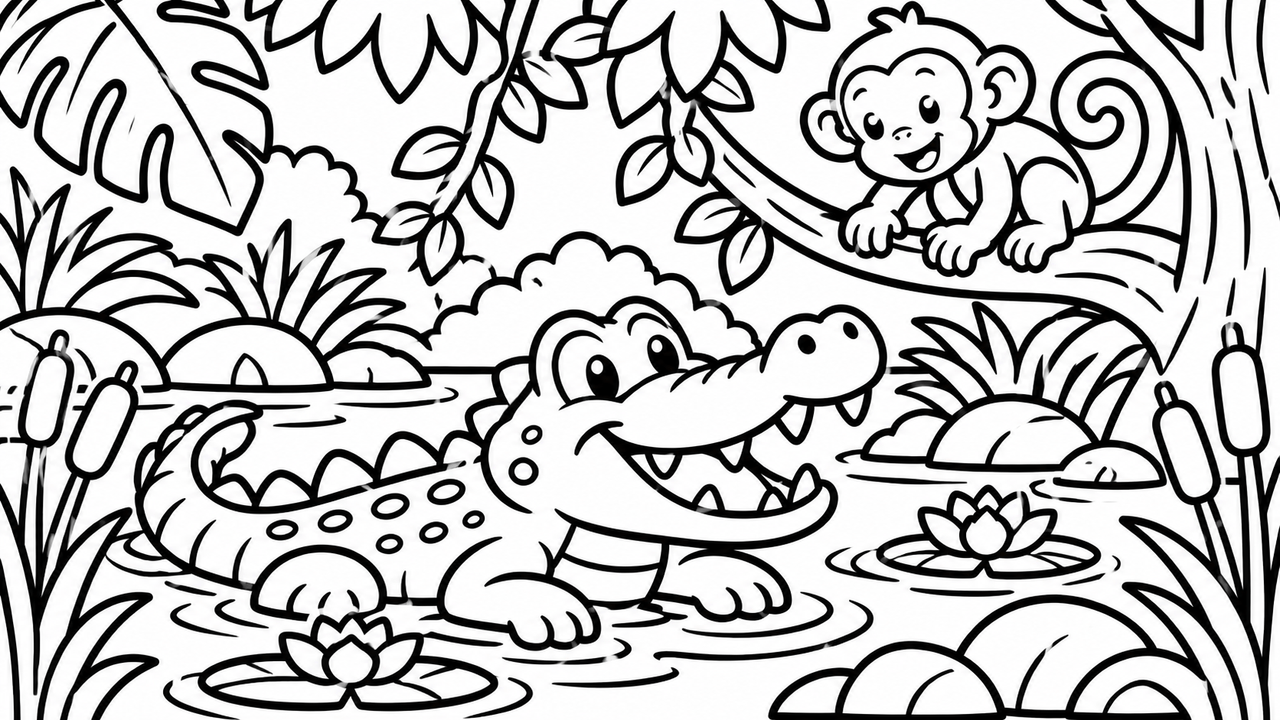
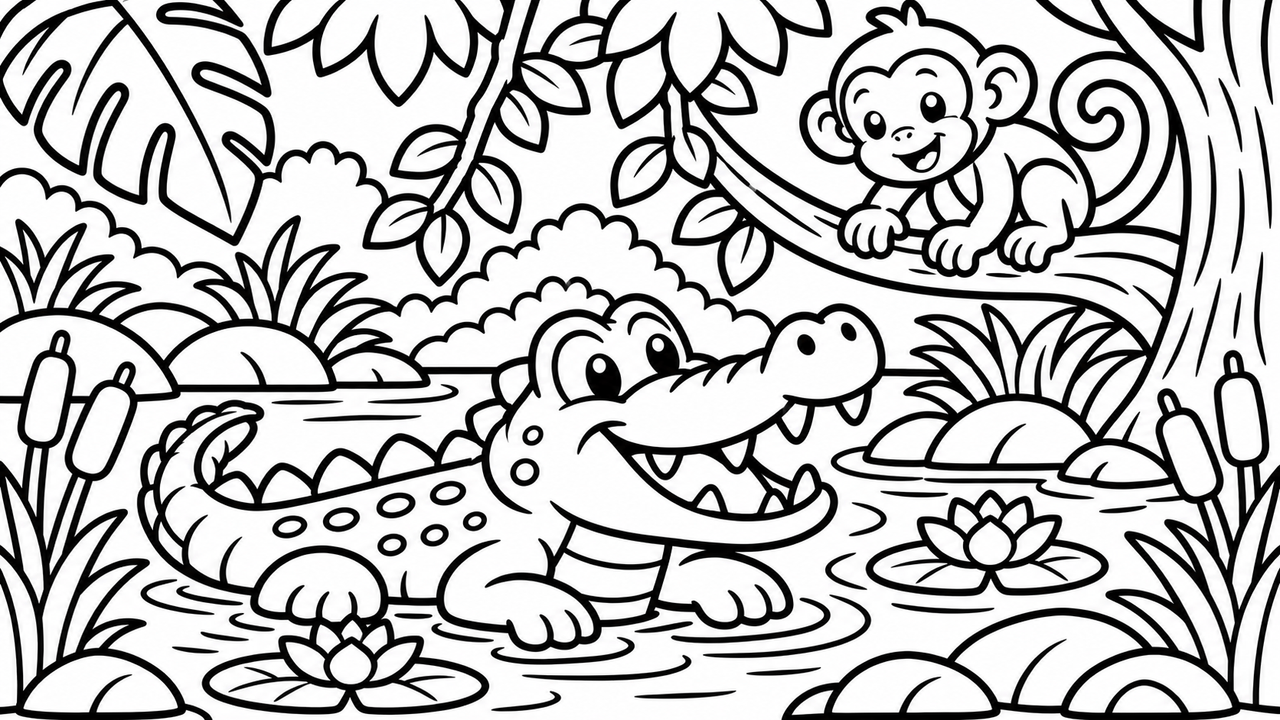
Refactor code structure for improved readability and maintainability

diff --git a/tests/coloring.browser.ts b/tests/coloring.browser.ts
@@ -375,6 +375,21 @@ async function main() {
     await open(); await expect(canvas()).toHaveAttribute("aria-label", "Jungle River Adventure coloring canvas");
     assert.equal(await snapshot(), riverPainted, "new scene progress survives fullscreen exit and reload");
 
+    for (const index of [4, 5]) {
+      const scene = COLORING_SCENES[index], sample = await fixture(index);
+      await page.getByRole("button", { name: scene.title, exact: true }).click();
+      await expect(canvas()).toHaveAttribute("aria-label", `${scene.title} coloring canvas`);
+      await page.getByRole("button", { name: "Bucket", exact: true }).click();
+      await (await supplies("Colors")).getByRole("button", { name: "Leaf", exact: true }).click();
+      await canvas().scrollIntoViewIfNeeded();
+      const blank = await snapshot(); await at(sample.seed);
+      const painted = await snapshot(); assert.notEqual(painted, blank, `${scene.title} supports bucket coloring`);
+      await open(); await expect(canvas()).toHaveAttribute("aria-label", `${scene.title} coloring canvas`);
+      assert.equal(await snapshot(), painted, `${scene.title} saves separately and reopens correctly`);
+    }
+    await page.getByRole("button", { name: "Jungle River Adventure", exact: true }).click();
+    await expect(canvas()).toHaveAttribute("aria-label", "Jungle River Adventure coloring canvas");
+
     // Storage failure must never prevent drawing or silently claim a save.
     await page.evaluate(() => { Storage.prototype.setItem = () => { throw new DOMException("Full", "QuotaExceededError"); }; });
     await (await supplies("Colors")).getByRole("button", { name: "Poppy", exact: true }).click();

diff --git a/lib/coloring.ts b/lib/coloring.ts
@@ -3,6 +3,8 @@ export const COLORING_SCENES = [
   { id: "crocodile-creek", description: "A smiling crocodile swims below a monkey beside water lilies and river plants.", title: "Crocodile Creek", subtitle: "Make a splash with your favorite colors.", image: "/games/coloring/crocodile-creek.png" },
   { id: "jungle-friends", description: "A monkey, toucan, snake, and jaguar share a leafy jungle hideaway.", title: "Jungle Friends", subtitle: "A whole jungle of happy little friends.", image: "/games/coloring/jungle-friends.png" },
   { id: "jungle-river", description: "A brave monkey explores a river with a waterfall, hippo, fish, snakes, gorilla, and tiger.", title: "Jungle River Adventure", subtitle: "A wild river, a brave explorer, and a splash of color.", image: "/games/coloring/jungle-river.png" },
+  { id: "vine-swing", description: "A smiling monkey swings on a vine among jungle leaves, flowers, and clouds.", title: "Vine Swing", subtitle: "Swing into a bright jungle adventure.", image: "/games/coloring/vine-swing.png" },
+  { id: "elephant-splash", description: "A happy elephant sprays water beside a waterfall, frogs, butterflies, and water lilies.", title: "Elephant Splash", subtitle: "A happy splash of color by the waterfall.", image: "/games/coloring/elephant-splash.png" },
 ] as const;
 
 export type ColoringSceneId = typeof COLORING_SCENES[number]["id"];

diff --git a/public/games/coloring/README.md b/public/games/coloring/README.md
@@ -1,11 +1,13 @@
 # Coloring Adventures artwork
 
-The four coloring pages were supplied by the user for this game:
+The six coloring pages were supplied by the user for this game:
 
-- `treasure-jungle.png`: Monkey and Jaguar Treasure Adventure (1).png
-- `crocodile-creek.png`: Crocodile and Monkey Jungle Adventure.png
+- `treasure-jungle.png`: Jungle Treasure Chest Adventure.png (corrected replacement)
+- `crocodile-creek.png`: Jungle Swamp Coloring Adventure.png (corrected replacement)
 - `jungle-river.png`: Jungle Adventure Coloring Scene.png (corrected replacement)
 - `jungle-friends.png`: Smiling Jungle Friends Coloring Scene.png
+- `vine-swing.png`: Jungle Monkey Adventure Coloring Page.png
+- `elephant-splash.png`: Joyful Elephant Jungle Waterfall Coloring Scene.png
 
 The imported drawings are resized to 1280 pixels wide and stored as optimized
 PNG files. Their outlines remain the top layer during coloring and export.

diff --git a/README.md b/README.md
@@ -44,7 +44,7 @@ npm run db:deploy
 
 ## Coloring Adventures
 
-Open Coloring Adventures from a child's Games screen to color four jungle
+Open Coloring Adventures from a child's Games screen to color six jungle
 landscapes with a bucket, brush, dots/stripes/stars, eraser, and color picker.
 The brush stays inside its starting shape by default; turn off “Stay inside
 the lines” for free drawing. Zoom to reach small details, use Move to drag the
